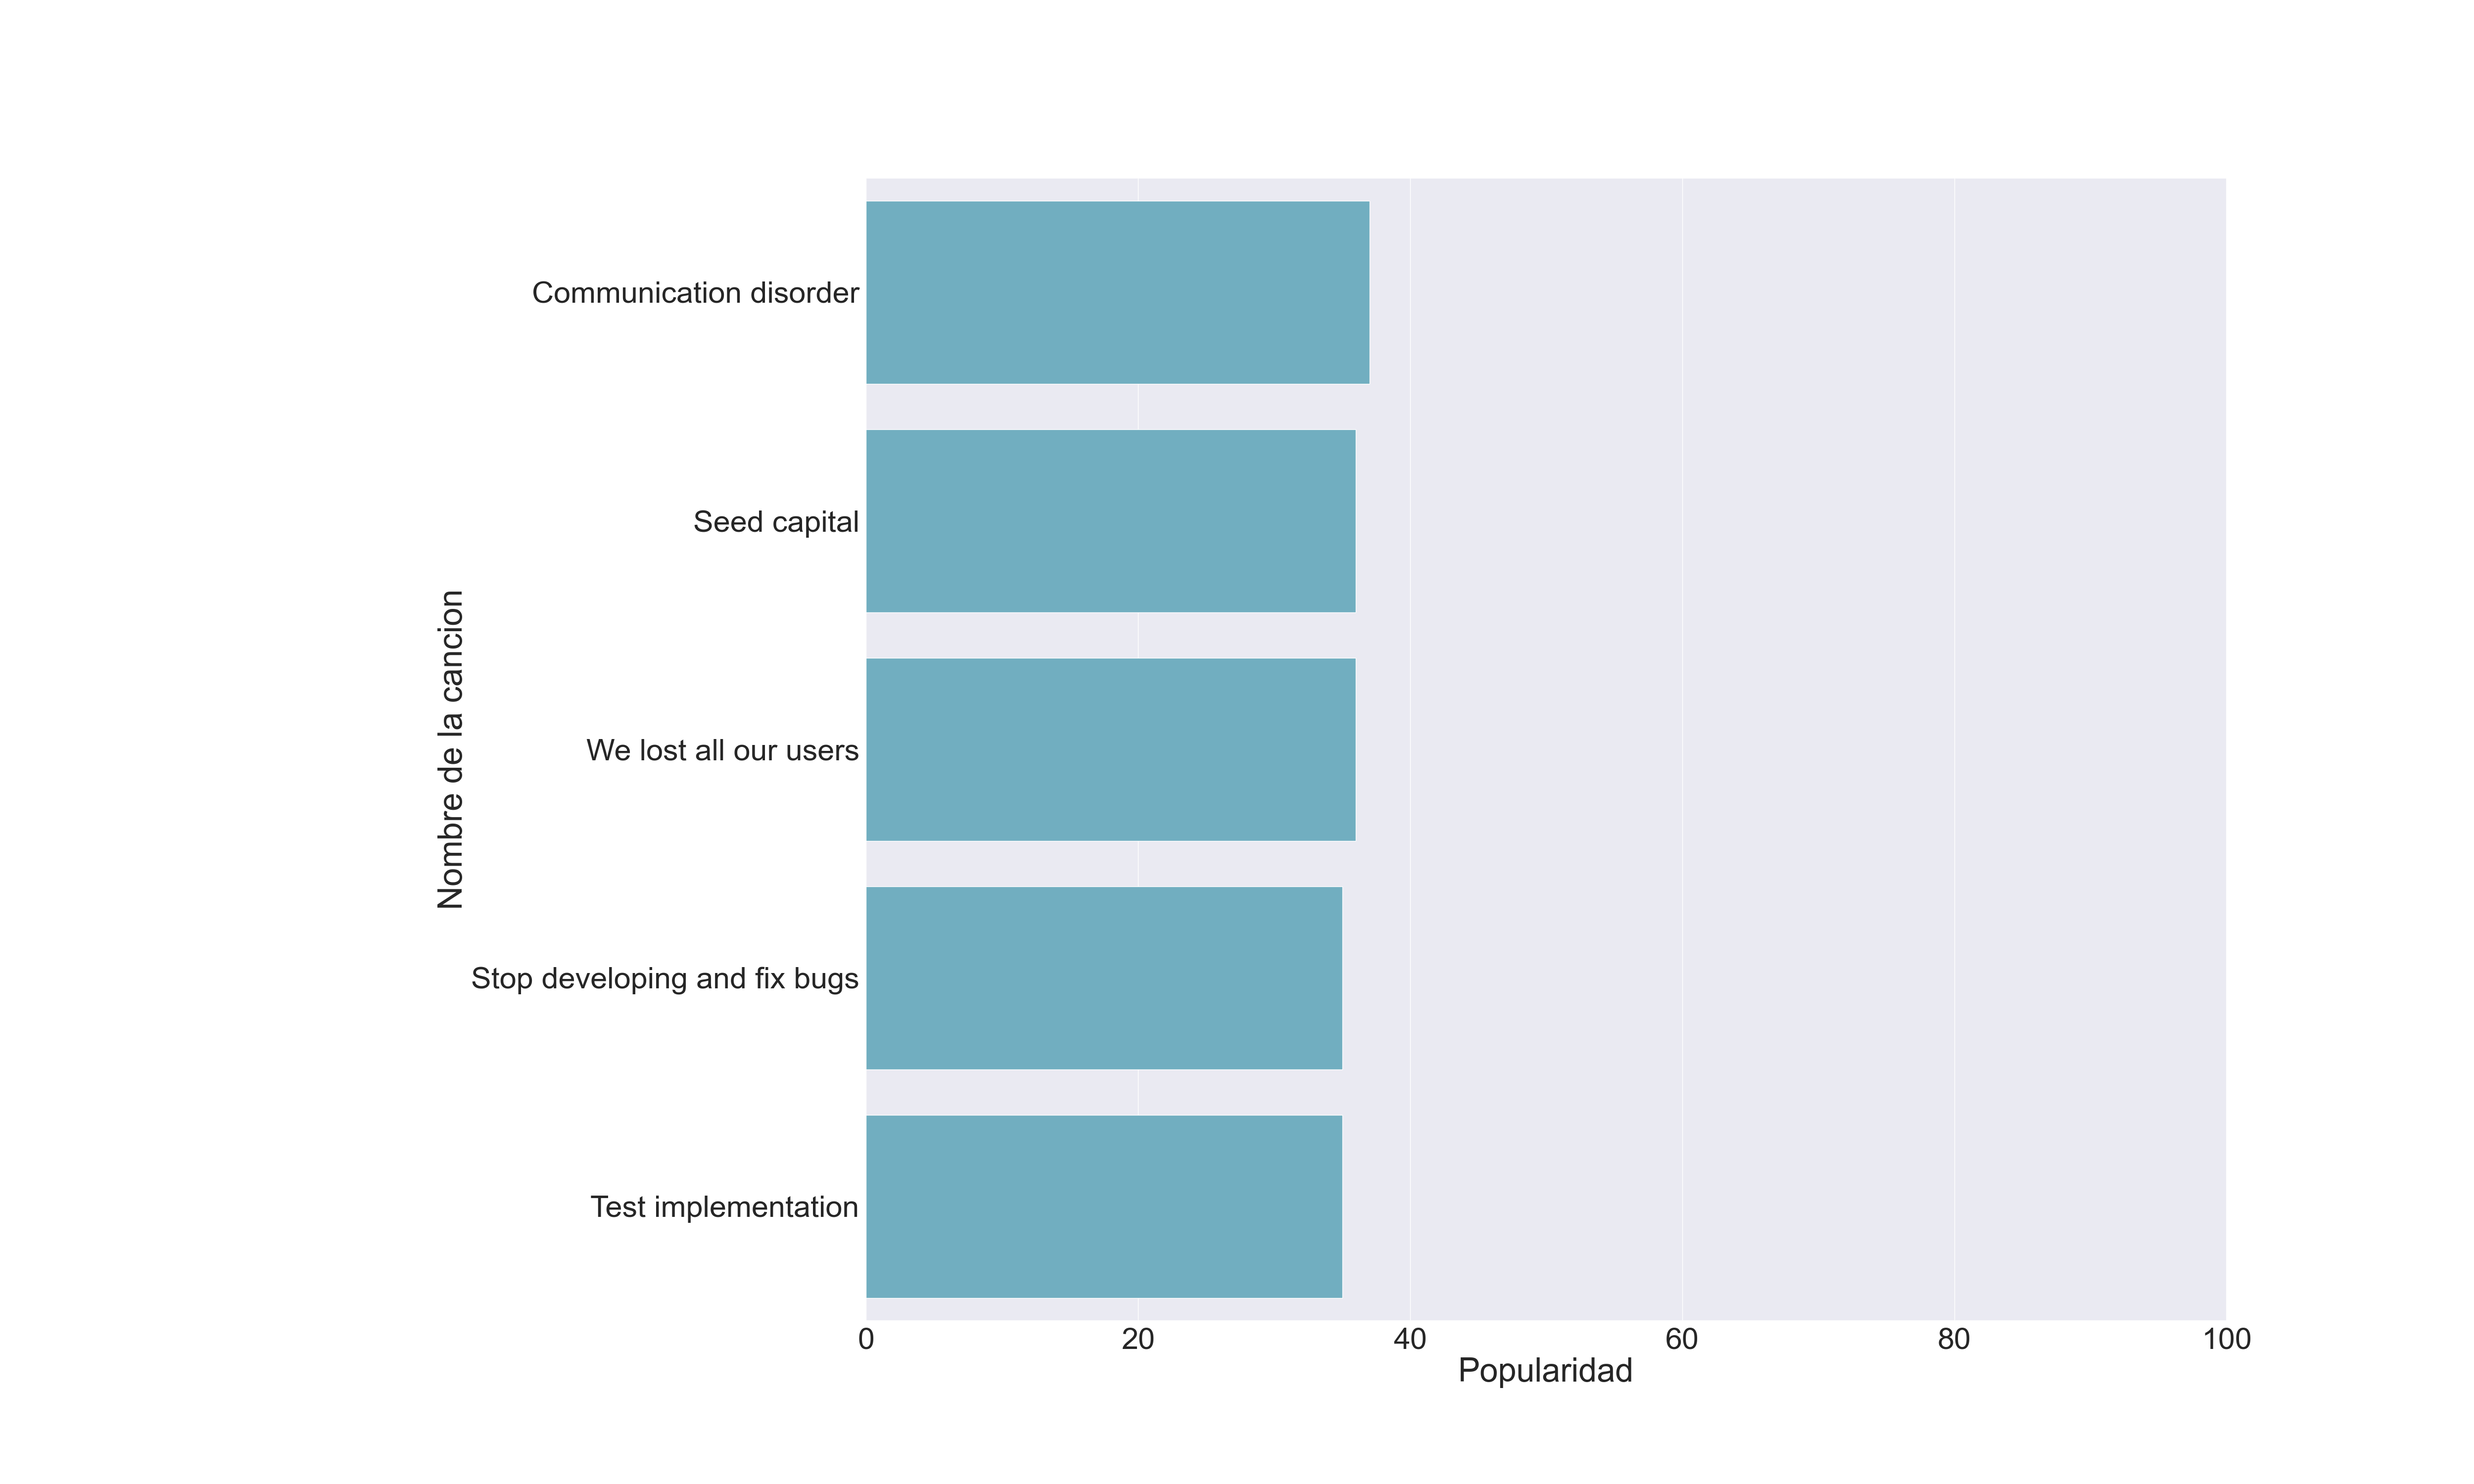
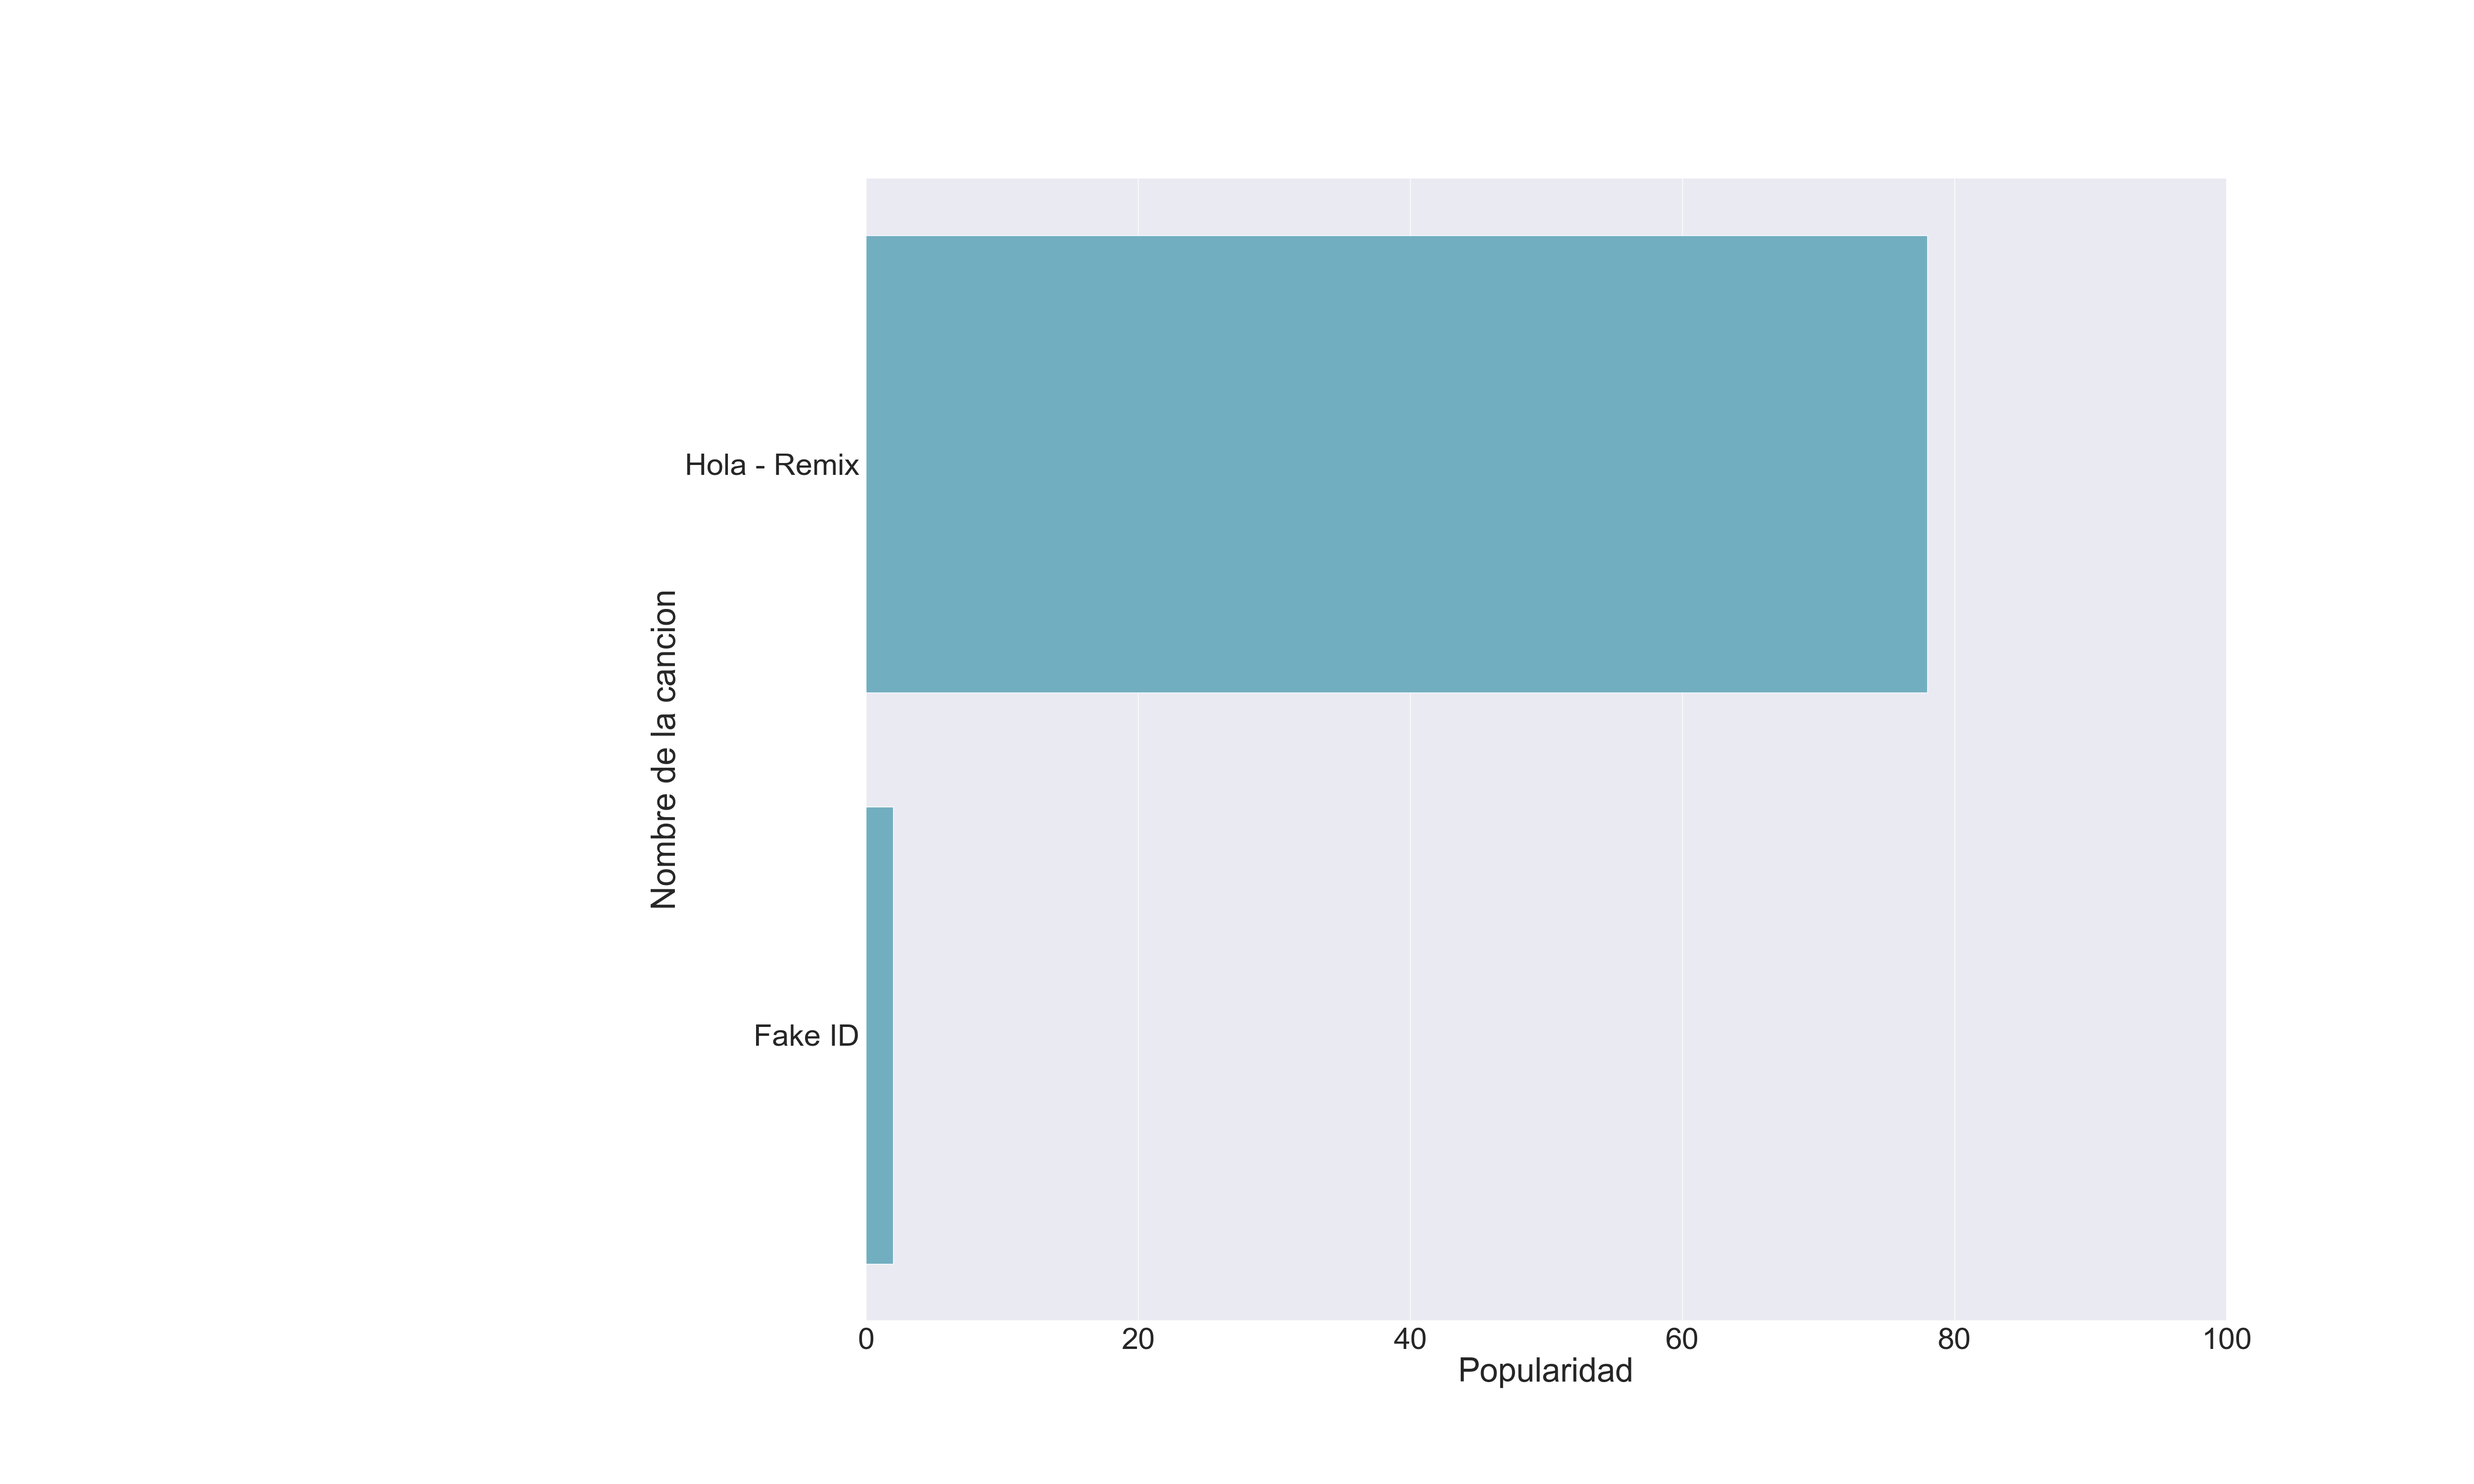
Control de lista vacia

diff --git a/SpotifyList/playlists/templates/playlists/playlist_detail.html b/SpotifyList/playlists/templates/playlists/playlist_detail.html
@@ -17,6 +17,7 @@
         </section>
     </div>
 
+    {% if empty_playlist %}
 
     <div class="divTable">
          <table class="table">
@@ -48,13 +49,12 @@
             {% endfor %}
          </table>
     </div>
-    <div>
+        
+    <button id="anadirplaylist">
+        <a href="{% url 'grafico_canciones'%}">
+        Gráfica top 5 canciones
+    </button>
+    
+    {% endif %}
 
-        <button id="anadirplaylist">
-            <a href="{% url 'grafico_canciones'%}">
-            Gráfica top 5 canciones
-        </button>
-
-
-    </div>
 {% endblock %}

diff --git a/SpotifyList/playlists/views.py b/SpotifyList/playlists/views.py
@@ -259,13 +259,14 @@ def playlist_detail(request, playlist_id, nombre_playlist):
     r = requests.get('https://api.spotify.com/v1/playlists/{}/tracks'.format(playlist_id), headers=headers)
 
     if r.status_code == 200:
-
+        isEmpty = False
         songs = []
         data = r.json()
 
         for items in data:
             if items == 'items':
                 for ptrack in data[items]:
+                    isEmpty = True
                     for artists in ptrack['track']['artists']:
                         artists_names = artists['name']
                     min, sec = divmod(ptrack['track']['duration_ms']/1000, 60)                   
@@ -276,28 +277,28 @@ def playlist_detail(request, playlist_id, nombre_playlist):
                                                     'link': ptrack['track']['external_urls']['spotify'],
                                                     'track_uri': ptrack['track']['uri']})
 
+        if isEmpty:
+            frame=pd.DataFrame(songs,columns=['nombre', 'popularidad'])
+            frame_sort= frame.sort_values('popularidad', ascending=False)
+            frame5 = frame_sort[:5]
 
-        frame=pd.DataFrame(songs,columns=['nombre', 'popularidad'])
-        frame_sort= frame.sort_values('popularidad', ascending=False)
-        frame5 = frame_sort[:5]
+            sns.set(font_scale=4)
 
-        sns.set(font_scale=4)
+            f, ax = plt.subplots(figsize=(50, 30))
+            f.subplots_adjust(left=0.35)
 
-        f, ax = plt.subplots(figsize=(50, 30))
-        f.subplots_adjust(left=0.35)
+            sns.barplot(x="popularidad", y="nombre", data=frame5,
+                            label="Popularidad", color="c")
+            ax.set(xlim=(0, 100),
+                    xlabel="Popularidad", ylabel='Nombre de la cancion')
 
-        sns.barplot(x="popularidad", y="nombre", data=frame5,
-                        label="Popularidad", color="c")
-        ax.set(xlim=(0, 100),
-                xlabel="Popularidad", ylabel='Nombre de la cancion')
-
-        plt.savefig('playlists/static/grafica.png')
-
+            plt.savefig('playlists/static/grafica.png')
 
         context = {
             'playlist_id': playlist_id, 
             'nombre_playlist': nombre_playlist,
-            'array_table_elements': songs
+            'array_table_elements': songs,
+            'empty_playlist': isEmpty
         }
 
         return render(request, 'playlists/playlist_detail.html', context)
